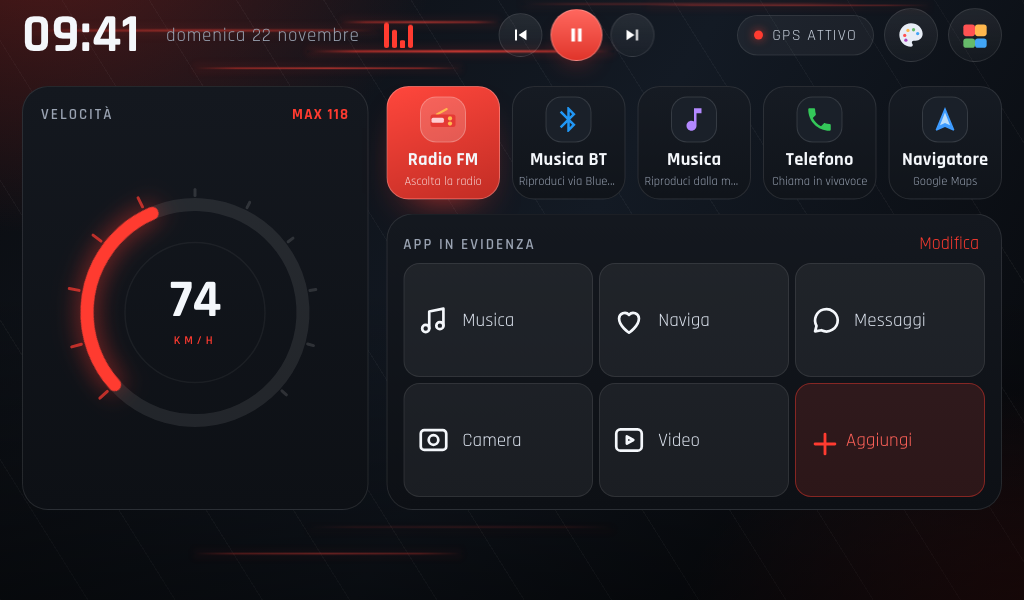
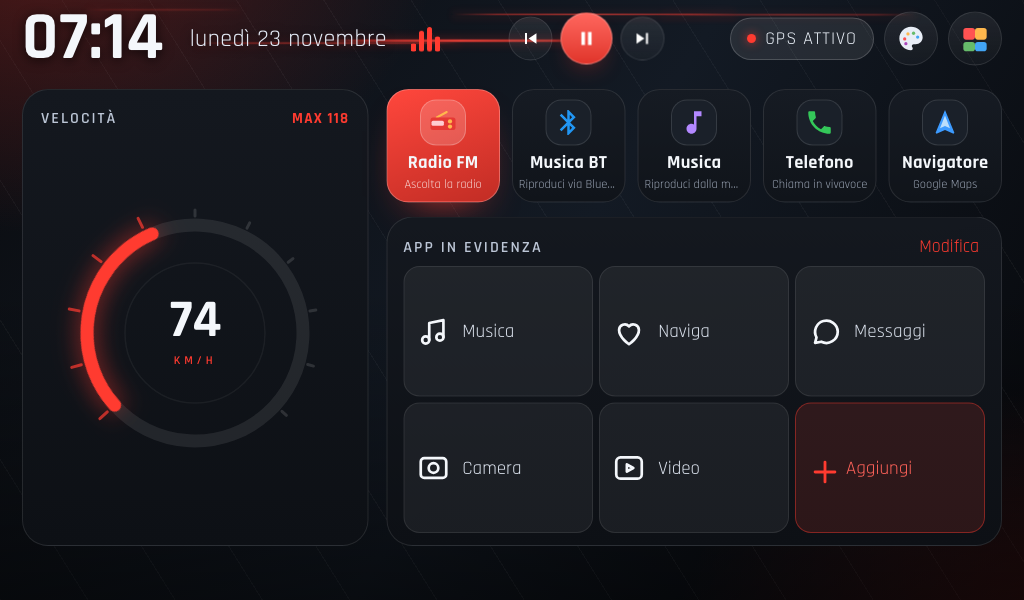
Slim the motion bands, enlarge the header text and widen the GPS stop tolerance

diff --git a/preview/index.html b/preview/index.html
@@ -52,14 +52,23 @@
   }
 
   /* thin accent streaks drifting up behind the header and along the bottom strip */
-  .head-zone { position: relative; padding-bottom: 14px; }
+  .head-zone { position: relative; padding-bottom: 10px; }
   .head-zone header { position: relative; z-index: 1; }
   .streaks { position: absolute; left: -22px; right: -22px; overflow: hidden; pointer-events: none; z-index: 0; }
   .head-zone .streaks {
-    top: -8px; height: 124px;
+    top: -8px; bottom: -4px;
     mask-image: linear-gradient(180deg, rgba(0,0,0,.35) 0%, #000 34%, #000 74%, transparent 100%);
   }
+  .head-zone .streaks i { --rise: -58px; }
+  .head-zone .streaks i:nth-child(9) { bottom: 46%; left: 8%; right: 55%; animation-delay: -2.1s; animation-duration: 7.6s; }
+  .head-zone .streaks i:nth-child(10) { bottom: 18%; left: 21%; right: 43%; animation-delay: -6.8s; animation-duration: 8.2s; }
+  .head-zone .streaks i:nth-child(11) { bottom: 62%; left: 44%; right: 26%; animation-delay: -3.9s; animation-duration: 7.1s; }
+  .head-zone .streaks i:nth-child(12) { bottom: 8%; left: 62%; right: 12%; animation-delay: -7.5s; animation-duration: 8.6s; }
+  .head-zone .streaks i:nth-child(13) { bottom: 70%; left: 15%; right: 62%; animation-delay: -5.7s; animation-duration: 7.9s; }
+  .head-zone .streaks i:nth-child(14) { bottom: 30%; left: 72%; right: 6%; animation-delay: -1.4s; animation-duration: 8.9s; }
+
   .streaks i {
+    --rise: -132px;
     position: absolute; height: 2.5px; border-radius: 999px; opacity: 0;
     background: linear-gradient(90deg, transparent,
       color-mix(in srgb, var(--accent) 72%, transparent) 16%,
@@ -81,27 +90,36 @@
     0% { transform: translateY(0) scaleX(.62); opacity: 0; }
     14% { opacity: .92; }
     72% { opacity: .5; }
-    100% { transform: translateY(-132px) scaleX(1.04); opacity: 0; }
+    100% { transform: translateY(var(--rise)) scaleX(1.04); opacity: 0; }
   }
 
   /* the same motion in a slim strip at the bottom, so the body closes with animation */
   .foot-strip {
-    position: relative; height: 72px; margin: 0 -22px -6px; overflow: hidden; pointer-events: none;
+    position: relative; height: 48px; margin: 0 -22px -14px; overflow: hidden; pointer-events: none;
     mask-image: linear-gradient(180deg, transparent 0%, rgba(0,0,0,.6) 40%, #000 82%);
   }
   .foot-strip .streaks { inset: 0; }
+  .foot-strip .streaks i { --rise: -54px; animation-duration: 5.5s; }
+  .foot-strip .streaks i:nth-child(1) { bottom: 4%; }
+  .foot-strip .streaks i:nth-child(2) { bottom: 22%; }
+  .foot-strip .streaks i:nth-child(3) { bottom: 12%; }
+  .foot-strip .streaks i:nth-child(4) { bottom: 40%; }
+  .foot-strip .streaks i:nth-child(5) { bottom: 30%; }
+  .foot-strip .streaks i:nth-child(6) { bottom: 58%; }
+  .foot-strip .streaks i:nth-child(7) { bottom: 34%; }
+  .foot-strip .streaks i:nth-child(8) { bottom: 68%; }
 
   /* ---------------- header ---------------- */
   header { display: flex; align-items: center; gap: 10px; }
-  .clock { font-weight: 700; font-size: 54px; line-height: .9; letter-spacing: .5px; }
-  .date { font-size: 19px; letter-spacing: .8px; color: #9AA4B3; margin-left: 16px; }
+  .clock { font-weight: 700; font-size: 68px; line-height: .9; letter-spacing: .5px; text-shadow: 0 2px 12px rgba(0,0,0,.7); }
+  .date { font-size: 24px; letter-spacing: .4px; color: #E3EAF5; margin-left: 16px; text-shadow: 0 2px 10px rgba(0,0,0,.7); }
   .spacer { flex: 1; }
 
   .chip {
     display: flex; align-items: center; gap: 9px;
     padding: 9px 16px; border-radius: 999px;
-    background: rgba(255,255,255,.05); border: 1px solid rgba(255,255,255,.09);
-    font-size: 16px; letter-spacing: 1.2px; color: #C6CEDA;
+    background: rgba(255,255,255,.09); border: 1px solid rgba(255,255,255,.18);
+    font-size: 18px; letter-spacing: 1px; color: #EDF3FB;
   }
   .dot { width: 9px; height: 9px; border-radius: 50%; background: var(--accent); box-shadow: 0 0 10px color-mix(in srgb, var(--accent) 70%, transparent); }
 
@@ -146,7 +164,7 @@
   }
 
   .speed-card { display: flex; flex-direction: column; padding: 18px 18px 8px; }
-  .card-label { font-size: 15px; letter-spacing: 2px; color: #9AA3B2; font-weight: 600; }
+  .card-label { font-size: 16px; letter-spacing: 2px; color: #BCC6D6; font-weight: 600; }
   .max { font-size: 15px; letter-spacing: 1.2px; color: var(--accent); font-weight: 700; }
   .card-head { display: flex; align-items: center; justify-content: space-between; }
   .gauge-wrap { flex: 1; display: grid; place-items: center; min-height: 0; position: relative; }
@@ -326,10 +344,10 @@
 
 <div class="app">
   <div class="head-zone">
-  <div class="streaks" aria-hidden="true"><i></i><i></i><i></i><i></i><i></i><i></i><i></i><i></i></div>
+  <div class="streaks" aria-hidden="true"><i></i><i></i><i></i><i></i><i></i><i></i><i></i><i></i><i></i><i></i><i></i><i></i><i></i><i></i></div>
   <header>
-    <div class="clock">09:41</div>
-    <div class="date">domenica 22 novembre</div>
+    <div class="clock">07:14</div>
+    <div class="date">lunedì 23 novembre</div>
     <span class="hdr-eq" aria-hidden="true"><i></i><i></i><i></i><i></i></span>
     <div class="spacer"></div>
     <div class="transport">

diff --git a/app/src/main/java/com/carlaunchercp/MainActivity.java b/app/src/main/java/com/carlaunchercp/MainActivity.java
@@ -134,9 +134,12 @@ public class MainActivity extends Activity implements Speedometer.Listener {
                 ViewGroup.LayoutParams.MATCH_PARENT, ViewGroup.LayoutParams.MATCH_PARENT));
 
 
+        // Slim animated band along the bottom edge: the body stops just above it.
+        int stripHeight = Ui.dp(this, landscape ? 48 : 62);
+
         LinearLayout content = new LinearLayout(this);
         content.setOrientation(LinearLayout.VERTICAL);
-        content.setPadding(Ui.dp(this, 22), Ui.dp(this, 0), Ui.dp(this, 22), Ui.dp(this, 14));
+        content.setPadding(Ui.dp(this, 22), Ui.dp(this, 6), Ui.dp(this, 22), stripHeight + Ui.dp(this, 8));
         content.addView(buildHeader(), new LinearLayout.LayoutParams(
                 ViewGroup.LayoutParams.MATCH_PARENT, ViewGroup.LayoutParams.WRAP_CONTENT));
 
@@ -186,6 +189,8 @@ public class MainActivity extends Activity implements Speedometer.Listener {
         }
         rootFrame.addView(contentRoot, new FrameLayout.LayoutParams(
                 ViewGroup.LayoutParams.MATCH_PARENT, ViewGroup.LayoutParams.MATCH_PARENT));
+        rootFrame.addView(buildBottomStrip(), new FrameLayout.LayoutParams(
+                ViewGroup.LayoutParams.MATCH_PARENT, stripHeight, Gravity.BOTTOM));
         setContentView(rootFrame);
 
         content.setAlpha(0f);
@@ -202,7 +207,7 @@ public class MainActivity extends Activity implements Speedometer.Listener {
         if (landscape) {
             int rightWidth = Math.round((screenWidth - Ui.dp(this, 44) - Ui.dp(this, 18)) * 0.64f);
             int cell = (rightWidth - gap * 4) / 5;
-            return Math.max(Ui.dp(this, 100), Math.min(cell, Ui.dp(this, 142)));
+            return Math.max(Ui.dp(this, 100), Math.min(cell, Ui.dp(this, 150)));
         }
         int cell = (screenWidth - Ui.dp(this, 44) - gap) / 2;
         return Math.max(Ui.dp(this, 110), cell);
@@ -213,17 +218,19 @@ public class MainActivity extends Activity implements Speedometer.Listener {
         header.setOrientation(LinearLayout.HORIZONTAL);
         header.setGravity(Gravity.CENTER_VERTICAL);
 
-        clockView = Ui.text(this, "--:--", 54f, 0xFFF7F9FC, Ui.displayBold(this));
+        clockView = Ui.text(this, "--:--", landscape ? 68f : 56f, 0xFFFFFFFF, Ui.displayBold(this));
         clockView.setLetterSpacing(0.01f);
+        clockView.setShadowLayer(Ui.dp(this, 10), 0f, Ui.dp(this, 2), 0xB3000000);
 
-        dateView = Ui.text(this, "", 19f, 0xFF9AA4B3, Ui.medium(this));
-        dateView.setLetterSpacing(0.04f);
+        dateView = Ui.text(this, "", landscape ? 24f : 19f, 0xFFE3EAF5, Ui.medium(this));
+        dateView.setLetterSpacing(0.02f);
+        dateView.setShadowLayer(Ui.dp(this, 8), 0f, Ui.dp(this, 2), 0xB3000000);
 
         clockBars = new EqualizerBarsView(this);
         clockBars.setAccent(theme.accent);
         clockBars.setRunning(true);
         LinearLayout.LayoutParams barsLp = new LinearLayout.LayoutParams(
-                Ui.dp(this, 32), Ui.dp(this, 26));
+                Ui.dp(this, 38), Ui.dp(this, 32));
         barsLp.leftMargin = Ui.dp(this, 14);
 
         LinearLayout clockBlock = new LinearLayout(this);
@@ -274,7 +281,7 @@ public class MainActivity extends Activity implements Speedometer.Listener {
         gpsChip.setOrientation(LinearLayout.HORIZONTAL);
         gpsChip.setGravity(Gravity.CENTER_VERTICAL);
         gpsChip.setPadding(Ui.dp(this, 14), Ui.dp(this, 9), Ui.dp(this, 16), Ui.dp(this, 9));
-        gpsChip.setBackground(Ui.shape(0x0DFFFFFF, 999f, this, 0x16FFFFFF, 1f));
+        gpsChip.setBackground(Ui.shape(0x16FFFFFF, 999f, this, 0x2EFFFFFF, 1f));
         gpsChip.setClickable(true);
         gpsChip.setOnClickListener(v -> handleGpsChipClick());
 
@@ -284,8 +291,8 @@ public class MainActivity extends Activity implements Speedometer.Listener {
         gpsDot.setBackground(Ui.oval(0xFF8A93A2, this, 0, 0));
         gpsChip.addView(gpsDot, dotLp);
 
-        gpsLabel = Ui.text(this, getString(R.string.gps), 16f, 0xFFB9C2D0, Ui.display(this));
-        gpsLabel.setLetterSpacing(0.12f);
+        gpsLabel = Ui.text(this, getString(R.string.gps), 18f, 0xFFEDF3FB, Ui.display(this));
+        gpsLabel.setLetterSpacing(0.1f);
         gpsChip.addView(gpsLabel);
 
         LinearLayout.LayoutParams chipLp = new LinearLayout.LayoutParams(
@@ -306,13 +313,13 @@ public class MainActivity extends Activity implements Speedometer.Listener {
                 AllAppsDialog.show(this, theme, getString(R.string.app_picker_title)));
         header.addView(appsButton, new LinearLayout.LayoutParams(Ui.dp(this, 54), Ui.dp(this, 54)));
 
-        // Thin accent streaks rising behind the header, back a touch so the clock still reads first.
-        int headerZone = Ui.dp(this, inlineTransport ? 96 : 124);
+        // Thin accent streaks rising behind the header. The band hugs the header itself, so on
+        // screen the top stays a slim bar and the body keeps the height.
         FrameLayout headerZoneBox = new FrameLayout(this);
         SmokeView headerSmoke = new SmokeView(this);
         headerSmoke.setTheme(theme);
         headerZoneBox.addView(headerSmoke, new FrameLayout.LayoutParams(
-                ViewGroup.LayoutParams.MATCH_PARENT, headerZone, Gravity.TOP));
+                ViewGroup.LayoutParams.MATCH_PARENT, Ui.dp(this, landscape ? 82 : 100), Gravity.TOP));
 
         LinearLayout column = new LinearLayout(this);
         column.setOrientation(LinearLayout.VERTICAL);
@@ -331,30 +338,28 @@ public class MainActivity extends Activity implements Speedometer.Listener {
         headerZoneBox.addView(column, new FrameLayout.LayoutParams(
                 ViewGroup.LayoutParams.MATCH_PARENT, ViewGroup.LayoutParams.WRAP_CONTENT,
                 Gravity.TOP));
-        FrameLayout headerWrap = new FrameLayout(this);
-        headerWrap.addView(headerZoneBox, new FrameLayout.LayoutParams(
-                ViewGroup.LayoutParams.MATCH_PARENT, ViewGroup.LayoutParams.WRAP_CONTENT));
-        headerWrap.setAlpha(0.92f);
+        // Measure the header row and size the streak band to it, so no empty band sits below.
+        column.addOnLayoutChangeListener((v, left, top, right, bottom, oldLeft, oldTop, oldRight, oldBottom) -> {
+            int band = bottom - top + Ui.dp(this, 4);
+            ViewGroup.LayoutParams lp = headerSmoke.getLayoutParams();
+            if (lp.height != band) {
+                lp.height = band;
+                headerSmoke.setLayoutParams(lp);
+            }
+        });
+        return headerZoneBox;
+    }
 
-        // Same motion lower on the screen, so the body feels like one surface, not a cut-out.
-        LinearLayout bodyStrip = new LinearLayout(this);
-        bodyStrip.setOrientation(LinearLayout.HORIZONTAL);
-        bodyStrip.setGravity(Gravity.TOP);
+    /** Same streaks as the header, in a slim band along the bottom edge of the screen. */
+    private View buildBottomStrip() {
         SmokeView bodySmoke = new SmokeView(this);
         bodySmoke.setTheme(theme);
         bodySmoke.setAnchorBottom(true);
-        int bodyStripHeight = Ui.dp(this, landscape ? 64 : 84);
-        bodyStrip.addView(bodySmoke, new FrameLayout.LayoutParams(
-                ViewGroup.LayoutParams.MATCH_PARENT, bodyStripHeight, Gravity.TOP));
-        bodyStrip.setAlpha(0.9f);
-
-        LinearLayout outer = new LinearLayout(this);
-        outer.setOrientation(LinearLayout.VERTICAL);
-        outer.addView(headerWrap, new LinearLayout.LayoutParams(
-                ViewGroup.LayoutParams.MATCH_PARENT, ViewGroup.LayoutParams.WRAP_CONTENT));
-        outer.addView(bodyStrip, new LinearLayout.LayoutParams(
-                ViewGroup.LayoutParams.MATCH_PARENT, bodyStripHeight));
-        return outer;
+        FrameLayout strip = new FrameLayout(this);
+        strip.setAlpha(0.92f);
+        strip.addView(bodySmoke, new FrameLayout.LayoutParams(
+                ViewGroup.LayoutParams.MATCH_PARENT, ViewGroup.LayoutParams.MATCH_PARENT));
+        return strip;
     }
 
     /** Back, play/pause and next: keys for whichever app owns the media session. */
@@ -438,13 +443,13 @@ public class MainActivity extends Activity implements Speedometer.Listener {
         head.setOrientation(LinearLayout.HORIZONTAL);
         head.setGravity(Gravity.CENTER_VERTICAL);
 
-        TextView label = Ui.text(this, getString(R.string.speed_label), 15f, 0xFF9AA3B2,
+        TextView label = Ui.text(this, getString(R.string.speed_label), 16f, 0xFFBCC6D6,
                 Ui.displayBold(this));
         label.setLetterSpacing(0.18f);
         head.addView(label, new LinearLayout.LayoutParams(0,
                 ViewGroup.LayoutParams.WRAP_CONTENT, 1f));
 
-        maxView = Ui.text(this, getString(R.string.speed_max, 0), 15f, theme.accent,
+        maxView = Ui.text(this, getString(R.string.speed_max, 0), 16f, theme.accent,
                 Ui.displayBold(this));
         maxView.setLetterSpacing(0.1f);
         head.addView(maxView);
@@ -542,7 +547,7 @@ public class MainActivity extends Activity implements Speedometer.Listener {
         head.setOrientation(LinearLayout.HORIZONTAL);
         head.setGravity(Gravity.CENTER_VERTICAL);
 
-        TextView label = Ui.text(this, getString(R.string.favorites_title), 15f, 0xFF9AA3B2,
+        TextView label = Ui.text(this, getString(R.string.favorites_title), 16f, 0xFFBCC6D6,
                 Ui.displayBold(this));
         label.setLetterSpacing(0.18f);
         head.addView(label, new LinearLayout.LayoutParams(0,

diff --git a/app/src/main/java/com/carlaunchercp/Speedometer.java b/app/src/main/java/com/carlaunchercp/Speedometer.java
@@ -28,10 +28,10 @@ public final class Speedometer implements LocationListener {
         void onGpsPermissionMissing();
     }
 
-    /** Parked: anything below this is GPS drift, so it is reported as 0 km/h. */
-    private static final float STOPPED_KMH = 3.5f;
+    /** Parked: up to 3 km/h is GPS drift, so it is reported as 0 km/h. */
+    private static final float STOPPED_KMH = 3f;
     /** Moving again: the bit of hysteresis that keeps the reading from flickering at a stop. */
-    private static final float MOVING_KMH = 5f;
+    private static final float MOVING_KMH = 4f;
     /** A car that produces no fix for this long is not moving as far as the gauge knows. */
     private static final long FIX_TIMEOUT_MS = 12_000L;
 

diff --git a/README.md b/README.md
@@ -12,9 +12,9 @@ si guida.
 
 - **Velocità oraria** — tachimetro circolare con velocità GPS in km/h, velocità massima
   raggiunta e stato del fix (`GPS ATTIVO` / `CERCO GPS` / `GPS OFF`). A macchina ferma il
-  valore resta esattamente **0**: i falsi 1-2 km/h del GPS vengono filtrati con una soglia
-  di fermo e un'isteresi, e se il fix sparisce la velocità non resta congelata sull'ultimo
-  valore.
+  valore resta esattamente **0**: le oscillazioni del GPS fino a **3 km/h** vengono
+  filtrate con una soglia di fermo e un'isteresi, e se il fix sparisce la velocità non
+  resta congelata sull'ultimo valore.
 - **Radio FM** — apre l'app radio del tuo autoradio: viene cercata automaticamente fra i
   pacchetti più diffusi, altrimenti la scegli tu e la scelta viene ricordata.
 - **Musica BT** — apre la musica in streaming dal Bluetooth (app di sistema o quella che
@@ -28,11 +28,11 @@ si guida.
   stata scelta una viene rilevata automaticamente; la scelta resta memorizzata.
 - **App in evidenza** — fino a 6 scorciatoie scelte da te. Tieni premuta una scorciatoia
   per sostituirla o rimuoverla.
-- **Orologio e data** — ora molto grande con accanto la data per esteso, per esempio
-  `domenica 22 novembre`, e subito dopo le barre animate dell'equalizzatore. Dietro
-  l'orologio salgono sottili linee colorate che sfumano verso l'alto; la stessa animazione
-  chiude l'interfaccia in basso, in una banda sottile, così lo schermo respira da entrambi
-  i lati.
+- **Orologio e data** — ora bianca molto grande con accanto la data per esteso, per
+  esempio `domenica 22 novembre`, e subito dopo le barre animate dell'equalizzatore.
+  Dietro l'orologio salgono sottili linee colorate, su una banda che resta alta quanto
+  l'intestazione; la stessa animazione chiude l'interfaccia in basso, in una striscia
+  sottile a filo schermo, così il corpo centrale ha più spazio.
 - **Tutte le app** — il tasto in alto a destra apre una griglia a due colonne che occupa
   quasi tutto lo schermo: celle grandi, icona e nome leggibili, ricerca con filtro anche
   sulle lettere accentate. Tocco sull'icona = app a tutto schermo.
@@ -57,7 +57,7 @@ senza passare dal pannello delle impostazioni.
 
 ## Installazione
 
-1. Scarica `CarLauncherCP-1.5.0.apk` dalla sezione **Releases**.
+1. Scarica `CarLauncherCP-1.6.0.apk` dalla sezione **Releases**.
 2. Copiala sul dispositivo (chiavetta USB, ADB, ecc.) e installala, abilitando
    l'installazione da origini sconosciute se richiesto.
 3. Al primo avvio concede il permesso **Posizione** (serve solo per la velocità GPS).
